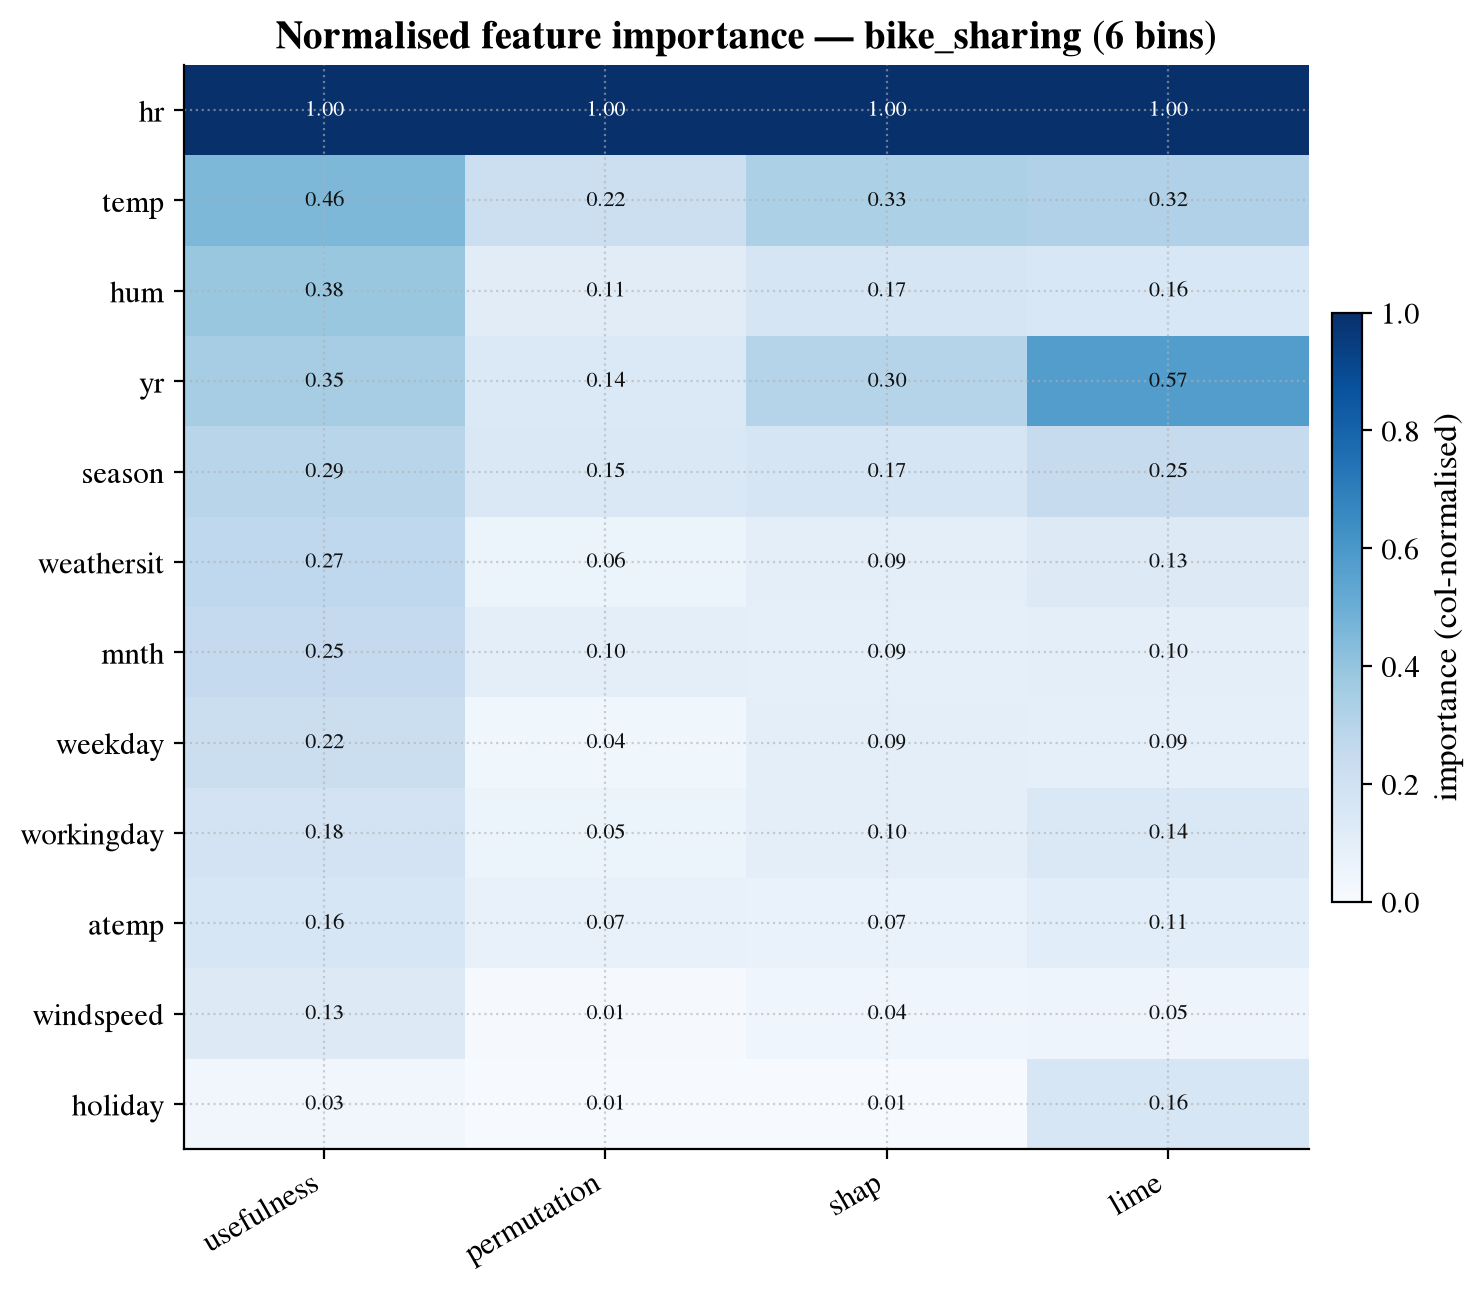
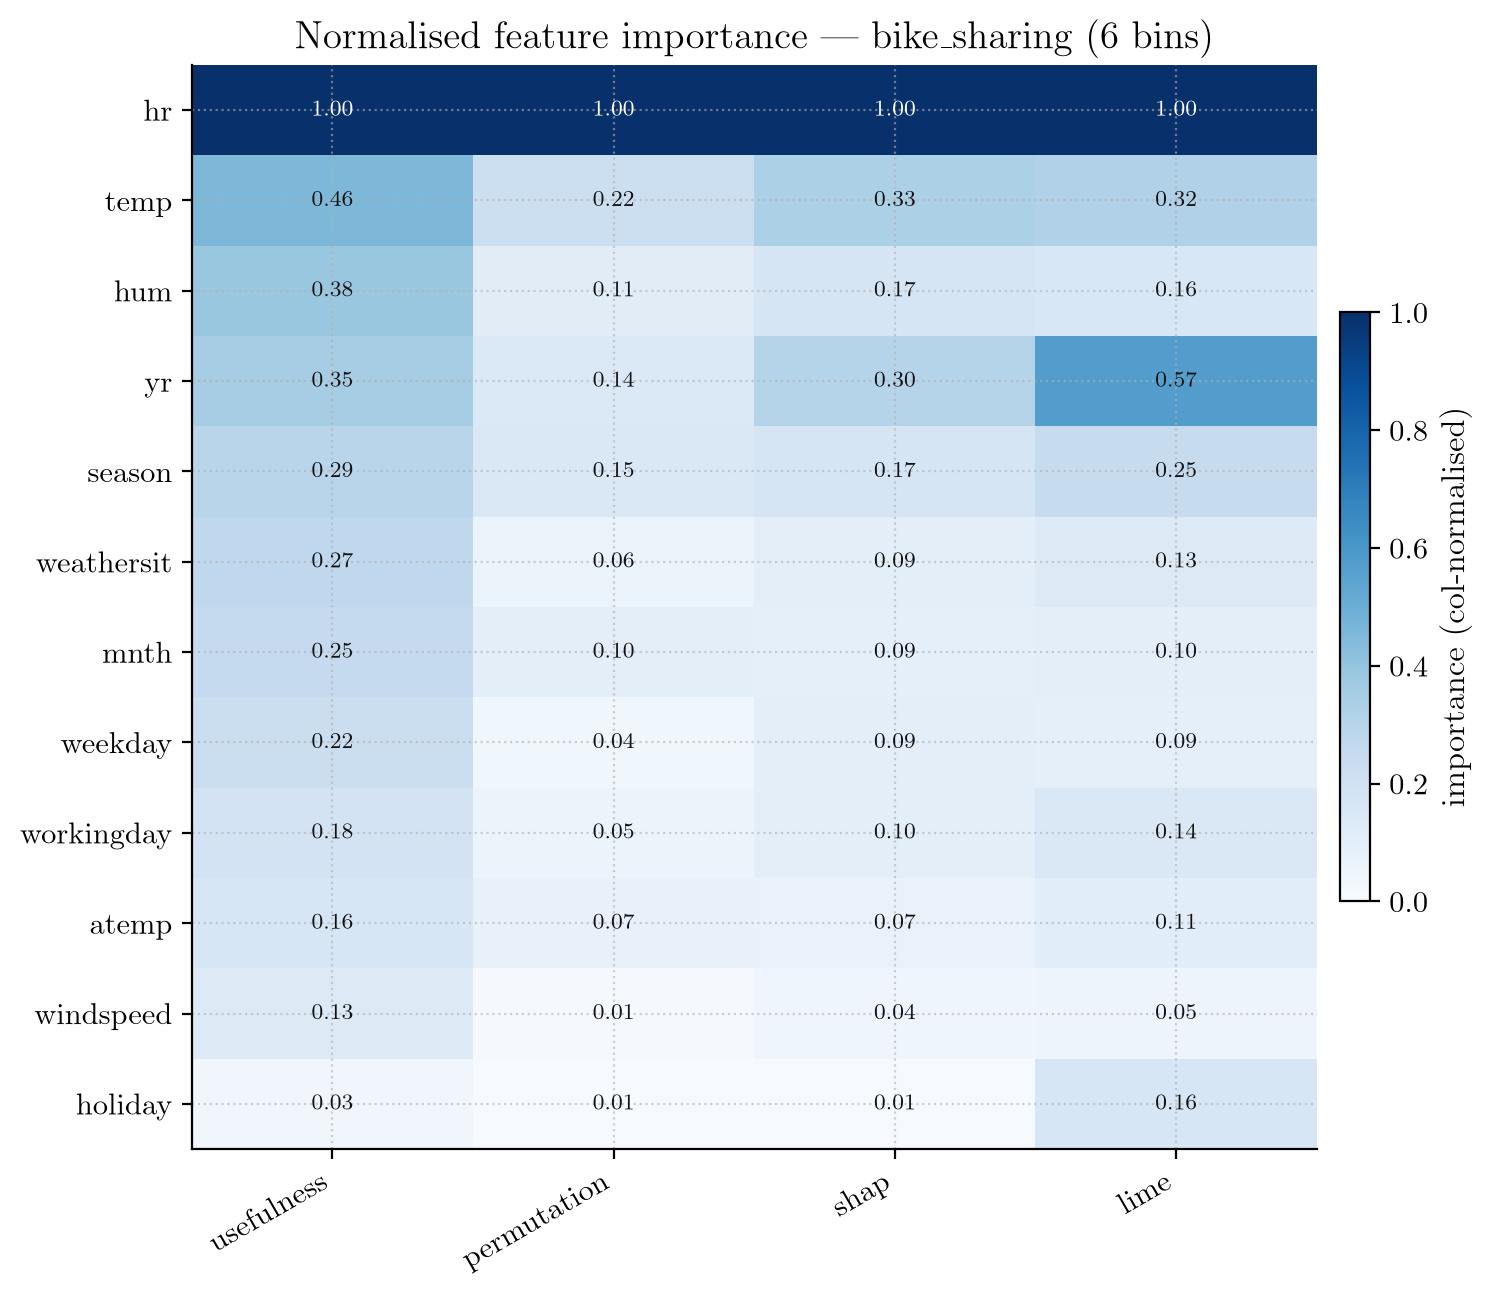
Improve plots

diff --git a/experiments.py b/experiments.py
@@ -73,15 +73,22 @@ def set_all_seeds(seed: int) -> None:
 def set_plot_style() -> None:
     """A clean, paper-friendly matplotlib style (colour-blind safe, legible).
 
-    Typography mimics a LaTeX-typeset paper: a serif face for all text and the
-    "cm" mathtext fontset for any embedded math, both bundled with matplotlib
-    (no system TeX install required, so this is portable everywhere).
+    Typography matches a LaTeX-typeset paper: every piece of text (titles,
+    labels, ticks, legends) is rendered *through* a real LaTeX install
+    (Computer Modern), via matplotlib's ``text.usetex``.  Falls back to
+    matplotlib's bundled "cm" mathtext fonts (still LaTeX-like, but with no
+    external dependency) if no ``latex`` binary is found on PATH, so the
+    module still works on a machine without a TeX distribution.
     """
+    import shutil
+    has_latex = shutil.which("latex") is not None
     plt.rcParams.update({
         "figure.dpi": 120,
         "savefig.dpi": 200,
+        "text.usetex": has_latex,
+        "text.latex.preamble": r"\usepackage{amsmath}",
         "font.family": "serif",
-        "font.serif": ["STIXGeneral", "cmr10", "DejaVu Serif"],
+        "font.serif": ["cmr10", "STIXGeneral", "DejaVu Serif"],
         "mathtext.fontset": "cm",
         "axes.formatter.use_mathtext": True,
         "font.size": 11,
@@ -97,6 +104,9 @@ def set_plot_style() -> None:
         "legend.frameon": False,
         "axes.prop_cycle": plt.cycler(color=COLOR_SCHEME),
     })
+    if not has_latex:
+        warnings.warn("No system LaTeX install found ('latex' not on PATH); falling back "
+                      "to matplotlib's bundled Computer-Modern-like fonts.")
 
 
 # ---------------------------------------------------------------------------
@@ -1039,13 +1049,14 @@ def plot_rank_correlation_heatmap(comparison: Dict[str, object], path_no_ext: st
     norm = mcolors.TwoSlopeNorm(vmin=-1, vcenter=0, vmax=1)          # neutral grey at 0
     im = ax.imshow(M.values, cmap="RdBu_r", norm=norm)
     ax.set_xticks(range(len(M))); ax.set_xticklabels(M.columns, rotation=30, ha="right")
-    ax.set_yticks(range(len(M))); ax.set_yticklabels(M.index)
+    ax.set_yticks(range(len(M)))
+    ax.set_yticklabels(M.index, rotation=30, ha="right", rotation_mode="anchor")
     for i in range(len(M)):
         for j in range(len(M)):
             ax.text(j, i, f"{M.values[i, j]:.2f}", ha="center", va="center", fontsize=8,
                     color="#111" if abs(M.values[i, j]) < 0.6 else "white")
     ax.set_title(f"Rank correlation between methods — {comparison['dataset']}")
-    fig.colorbar(im, ax=ax, fraction=0.046, pad=0.04, label="Spearman ρ")
+    fig.colorbar(im, ax=ax, fraction=0.046, pad=0.04, label=r"Spearman $\rho$")
     _save(fig, path_no_ext)
 
 
@@ -1080,7 +1091,7 @@ def plot_scaling(scaling_df: pd.DataFrame, dataset: str, path_no_ext: str) -> No
     ax = axs[0]
     ax.plot(bins_df["bins"], bins_df["time_total_s"], "o-", color=COLOR_SCHEME[0])
     ax.set_yscale("log"); ax.set_xlabel("number of bins")
-    ax.set_ylabel("time, all features (s)"); ax.set_title("Time vs #bins")
+    ax.set_ylabel("time, all features (s)"); ax.set_title("Time vs number of bins")
 
     # right: time vs nodes, with an empirical power-law fit (theory check)
     ax = axs[1]
@@ -1202,7 +1213,7 @@ def plot_binning_sensitivity(binning: Dict[str, pd.DataFrame], dataset: str, pat
     for i, pl in enumerate(pair_label.unique()):
         d = stability[pair_label == pl].sort_values("bins")
         ax.plot(d["bins"], d["spearman"], "o-", color=COLOR_SCHEME[i], label=pl)
-    ax.set_xlabel("bins"); ax.set_ylabel("Spearman ρ between strategies")
+    ax.set_xlabel("bins"); ax.set_ylabel(r"Spearman $\rho$ between strategies")
     ax.set_title("How much the ranking moves with strategy"); ax.legend(title="pair")
 
     fig.suptitle(f"Binning-strategy sensitivity — {dataset}", fontweight="bold")

diff --git a/README.md b/README.md
@@ -83,3 +83,8 @@ comp["corr_spearman"]  # pairwise Spearman rank correlation between methods
   already in `datasets/`.
 * **Reproducibility of discretization.** `KBinsDiscretizer` is built with
   `subsample=None` so `quantile`/`kmeans` bin edges are deterministic.
+* **Plot typography.** `set_plot_style()` renders every figure's text through a
+  real LaTeX install (Computer Modern), for a look that matches a LaTeX-typeset
+  paper. This needs `latex`/`dvipng` on `PATH` (any TeX distribution, e.g.
+  TeX Live or MiKTeX); if none is found it automatically falls back to
+  matplotlib's bundled Computer-Modern-like fonts, so the code still runs.
